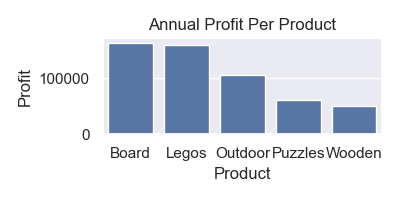
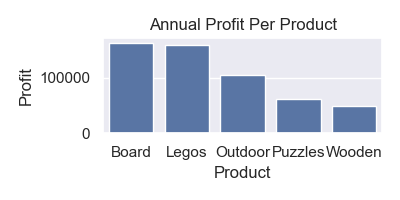
automation script for generating annual report

diff --git a/Sales/Pandas_Generate_Report_Automation.py b/Sales/Pandas_Generate_Report_Automation.py
@@ -1,0 +1,57 @@
+#!/usr/bin/env python
+# coding: utf-8
+
+# # Report the Annual Profit for each product
+
+import pandas as pd
+import seaborn as sns
+import matplotlib.pyplot as plt
+from io import BytesIO
+
+sns.set()
+
+# Loading the dataset
+df = pd.read_csv('toys.csv')
+
+# Creating a pivot table
+df_pvt = ( df
+         .drop(columns=['Quarter'])
+         .pivot_table(index="Product",
+                     aggfunc="sum")
+        )
+
+# Calculate the profit
+df_pvt.loc[:, 'Profit'] = df_pvt.Revenue - df_pvt.Expenditure
+
+
+# Plotting the graph
+fig, ax = plt.subplots(figsize=(4, 2))
+
+ax = sns.barplot(
+        data = (df_pvt
+               .reset_index()
+               # .sort_values('Revenue')
+               ),
+        x = "Product",
+        y = "Profit",
+        ax = ax
+    );
+
+plt.title("Annual Profit Per Product");
+plt.tight_layout()
+plt.savefig('annual_report.png')
+
+# Export to excel file
+excel_filename = "Annual_Report.xlsx"
+worksheet_name = "2014"
+
+
+image_data = BytesIO()
+ax.figure.savefig(image_data)
+
+with pd.ExcelWriter(excel_filename, engine="xlsxwriter") as FH:
+    df_pvt.to_excel(FH, sheet_name = worksheet_name)
+    shobj = FH.sheets[worksheet_name]
+    shobj.insert_image('F4', '' , {'image_data': image_data})
+
+print("Generated Annual report")
